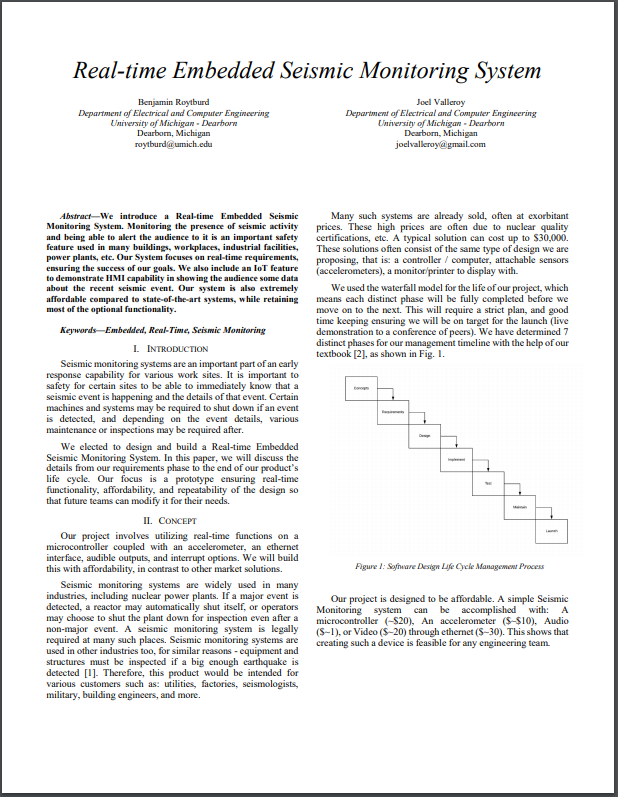
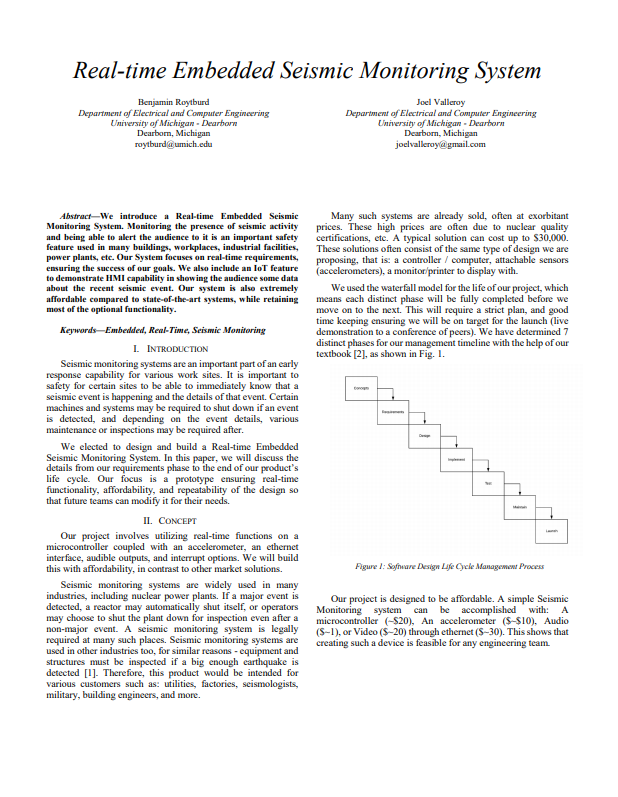
Paper Stacking Details

Changed region(s): [[0.0, 0.0, 1.0, 1.0]]

diff --git a/stylesheet.css b/stylesheet.css
@@ -12,8 +12,8 @@
 }
 
 .contact_mobile {
-	padding: 3%;
-	background: rgb(238,174,202);
+    padding: 3%;
+    background: rgb(238,174,202);
 }
 
 @media (max-width:962px) {
@@ -57,9 +57,39 @@ body {
 
 img {
     max-width: 100%;
-    outline: 1.5px solid darkgray;
+    outline: 0px solid darkgray;
 }
 
-.clickable:hover {
-	/* add something here later to make clickable pictures etc obvious */
+.paperstack {
+    background-color: #fff;
+	position: relative;
+    max-width: 100%;
+}
+
+.paperstack,
+.paperstack::before,
+.paperstack::after {
+    box-shadow: 1px 1px 1px rgba(0,0,0,0.15);
+    max-width: 100%;
+}
+
+.paperstack::before,
+.paperstack::after {
+    content: "";
+    position: absolute;
+    width: 100%;
+    height: 100%;
+    background-color: #eee;
+}
+
+.paperstack::before {
+    left: 3px;
+    top: 3px;
+    z-index: -1;
+}
+
+.paperstack::after {
+    left: 6px;
+    top: 6px;
+    z-index: -2;
 }

diff --git a/index.html b/index.html
@@ -36,7 +36,10 @@
         <p><img src="Resources\SeismicHW.png"></p>
         <p>
 			<a href="Resources\SeismicReport.pdf">
-				<img class ="clickable" style="max-width: 50%;" src="Resources\SeismicReportThumbnail.png">
+				<div class ="paperstack">
+					<img src="Resources\SeismicReportThumbnail.png">
+				</div>
+				<br>
 			</a>
 		</p>
     </div>
@@ -50,6 +53,7 @@
         
         <p><a href="Resources\SeniorPoster.pdf"><img src="Resources\SeniorPoster.png"></a></p>
         <p><a href="https://github.com/joelvalleroy/NFCSeniorProject">Github Repository</a></p>
+		<br>
     </div>
 
     <!-- JavaScript -->
